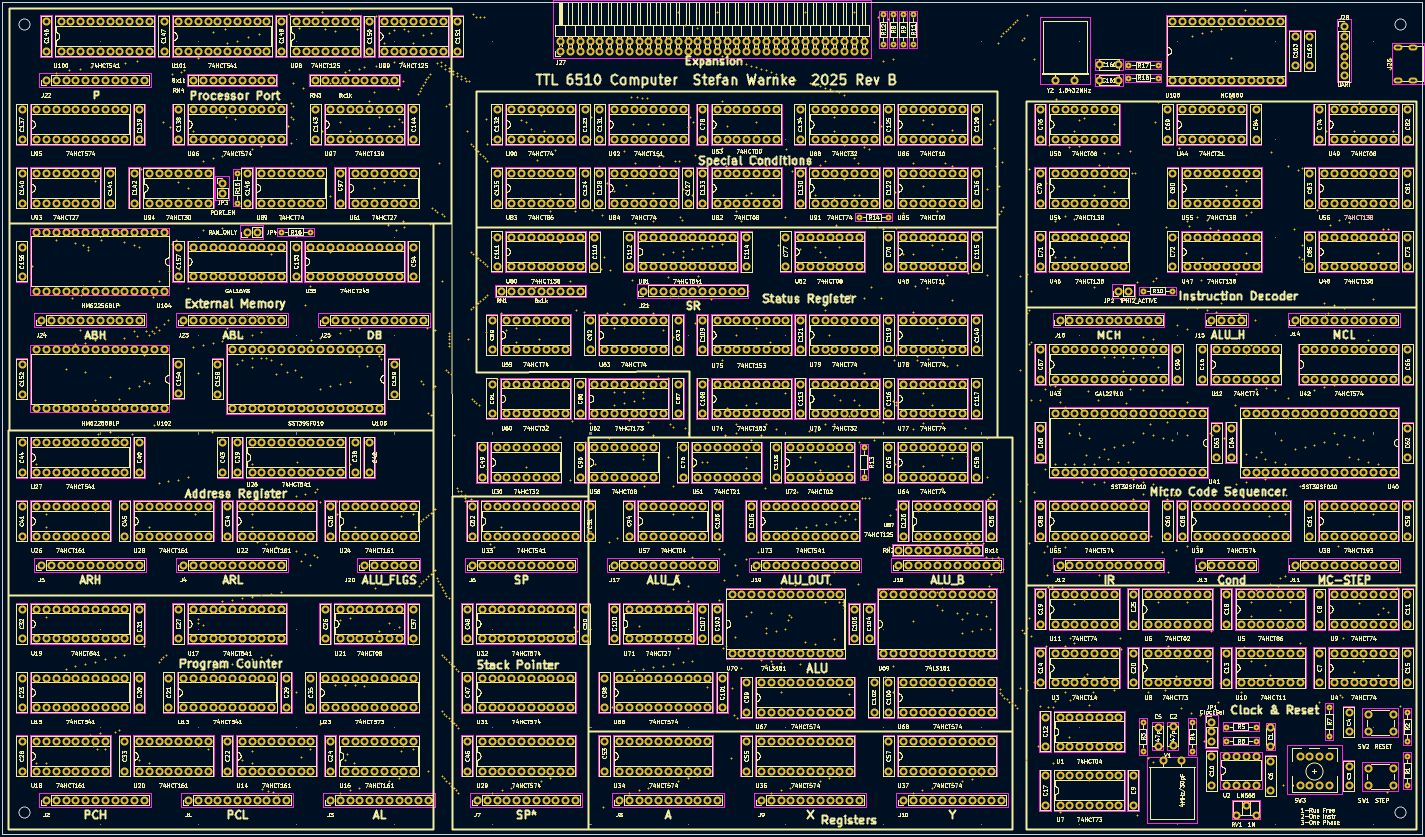
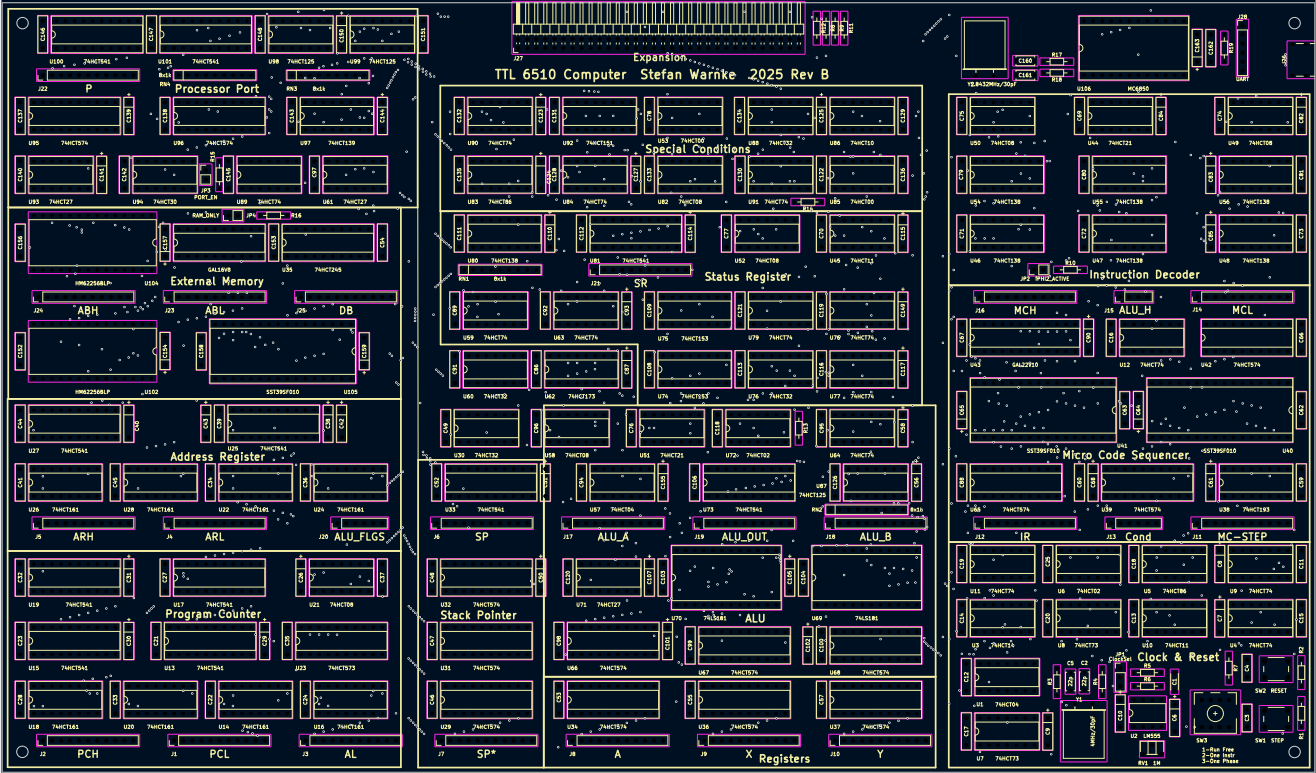
Status update

diff --git a/README.md b/README.md
@@ -480,7 +480,7 @@ The C64 had up to 64K Byte RAM and additional ROM areas that can be mapped. Toda
   <img src="docs/assets/images/page_14/procportmapping.png"/>
 </div>
 <br>
-The C64 uses a <a href="https://en.wikipedia.org/wiki/Programmable_Array_Logic">PAL</a> for chip select decoding. These were only one-time programmable, while the later developped <a href="https://en.wikipedia.org/wiki/Generic_Array_Logic">GAL</a> can be reprogrammed again and again. These GALs are still available and tools to <a href="https://www.microchip.com/en-us/development-tool/WinCUPL">compile</a> and <a href="https://www.amazon.com/dp/B0BFWKS53B">program</a>.
+The C64 uses a <a href="https://en.wikipedia.org/wiki/Programmable_Array_Logic">PAL</a> for chip select decoding. These were only one-time programmable, while the later developed <a href="https://en.wikipedia.org/wiki/Generic_Array_Logic">GAL</a> can be reprogrammed again and again. These GALs are still available and tools to <a href="https://www.microchip.com/en-us/development-tool/WinCUPL">compile</a> and <a href="https://www.amazon.com/dp/B0BFWKS53B">program</a>.
 <br>
 <div style="text-align: center;">
   <img src="docs/assets/images/page_14/wincupl.png"/>
@@ -507,20 +507,33 @@ In revision A I added a UART as expansion externally for communicating with the 
 <br>
 The chips on this page are not placed on the board and they don't appear in the BOM. They are only used for SimTTL to create viewable signals from their outputs. For instance, the CPU registers are captured from the data bus with some load signal, but their outputs are only shown, when they are read onto the data bus. These virtual chips capture the contents with the same signals, but always output their contents to be viewed in SimTTL.<br>
 This page can be ignored in regards to the board functionality.<br>
-<br><br><br><br>
 <br>
-<h4 style="text-align: center;">Status</h4>
+<h4 style="text-align: center;">Board Layout</h4>
 <br>
-I'm done with all simulations and changing the schematic. The new layout for Rev B is finished and send to <a href="www.PCBway.com">PCBway</a> for manufacturing the boards.<br>
+The new layout for Rev B is finished and turned into a board by <a href="www.PCBway.com">PCBway</a>.<br>
 <br>
 <div style="text-align: center;">
   <img src="docs/assets/images/layout.png"/>
 </div>
-The new board is a bit smaller in the vertical direction than the revision A board and all groups are re-organized for best display locations.<br>
+The new board is a bit smaller in the vertical direction than the revision A board and all groups are re-organized for best display locations.<br><br>
 <div style="text-align: center;">
   <img src="docs/assets/images/silkscreen.png"/>
 </div>
-As in the revision A I put some efforts into silkscreen to mark the different regions, display connectors and chips.
-
-
-
+As in the revision A I put some efforts into silkscreen to mark the different regions, display connectors and chips. Each chip is labeled with reference and value. Groups are outlines and named.
+<br><br>
+<div style="text-align: center;">
+  <img src="docs/assets/images/fab.png"/>
+</div>
+The silkscreen could not include all information, I had to leave out capacitor and resistor values for space reasons. So I generated a fab drawing as a help with all values.
+<br><br>
+<br>
+<h4 style="text-align: center;">Status</h4>
+<br>
+<div style="text-align: center;">
+  <img src="docs/assets/images/board_revB.jpg"/>
+</div>
+I received the boards and I'm currently soldering all sockets and components.
+<div style="text-align: center;">
+  <img src="docs/assets/images/pcb_revB_progress.jpg"/>
+</div>
+Still missing few parts....
